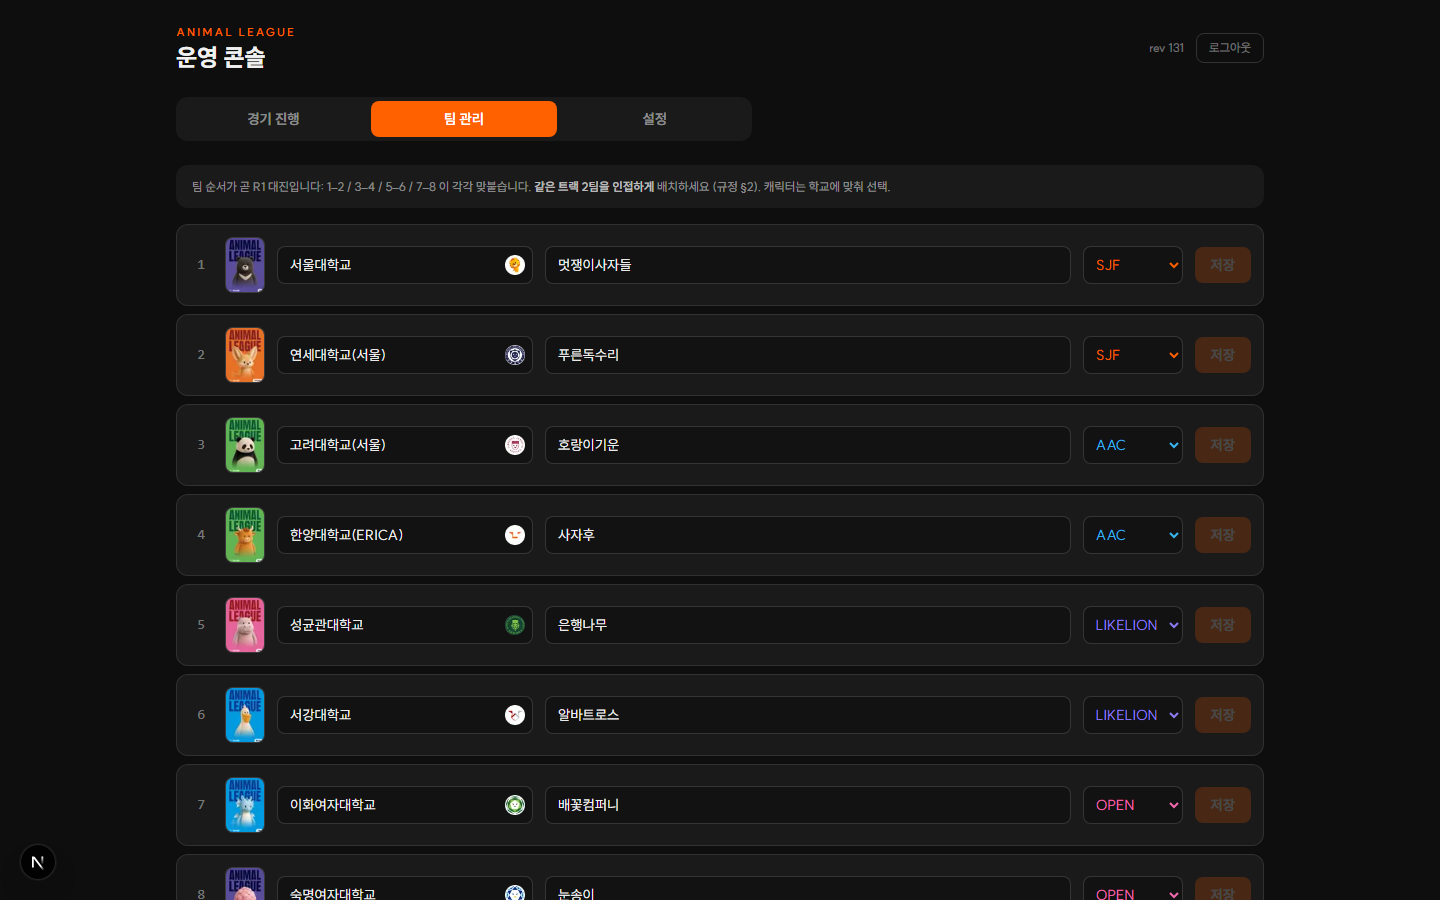
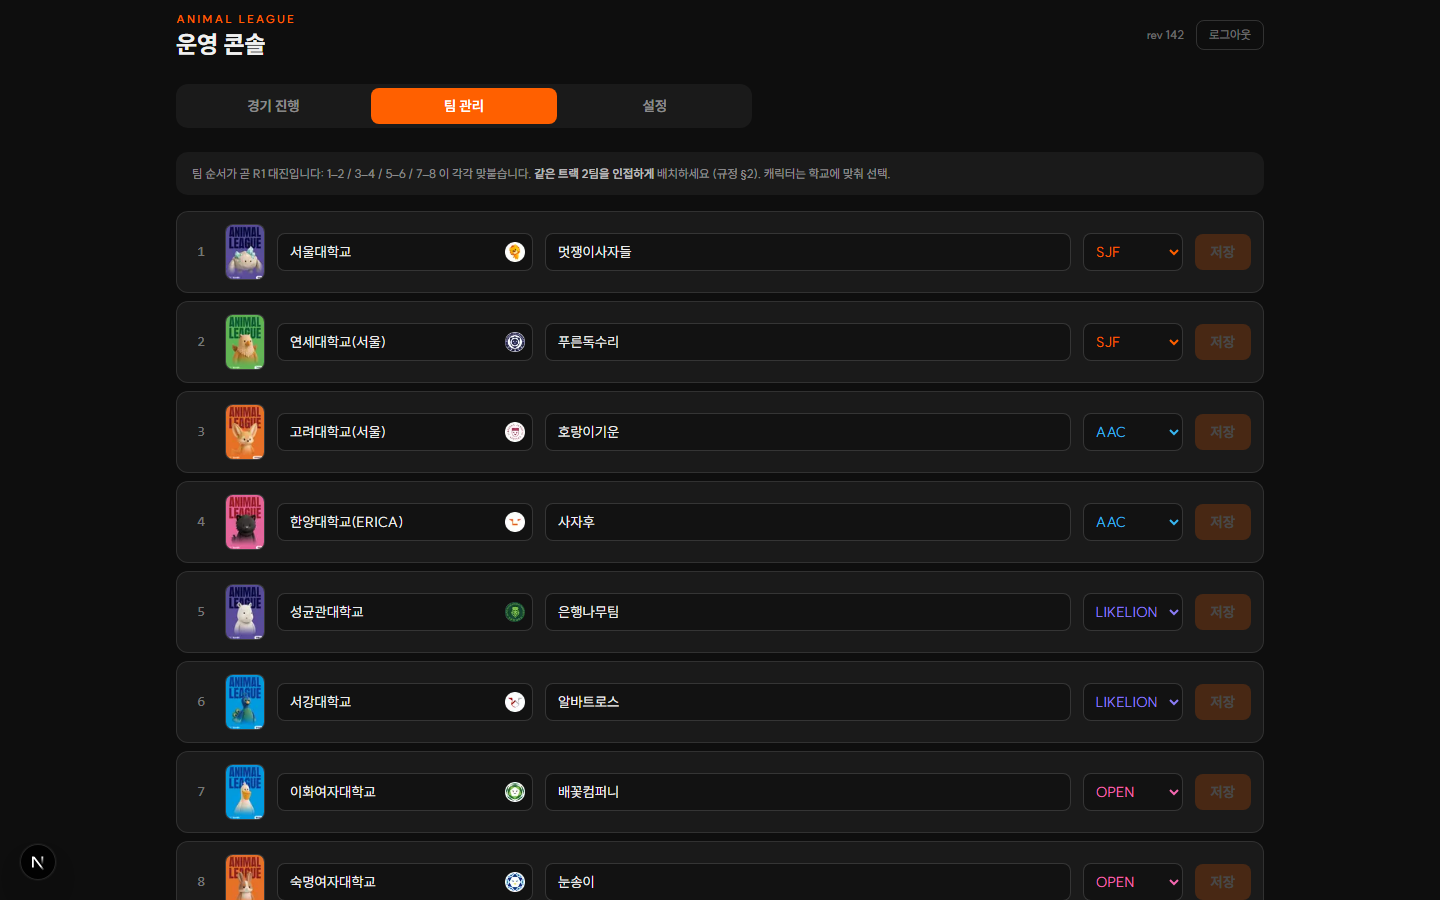
feat(admin): auto-assign characters from school roster mapping (#16)
담당자가 실서비스의 학교별 캐릭터 배정(학교 80 ↔ 캐릭터 80)을 제공했다.
8/17 '코드에 매핑 테이블을 두지 않는다' 결정은 데이터가 없던 시점의 것이라 갱신한다
— HANDOFF 결정 테이블에 경위 기록.

매핑을 잇는 데 빠져 있던 고리: 제공 데이터는 '학교 → 캐릭터 이름'인데 파일은
char_NN 번호뿐이다. 카드 이미지 80장의 하단 이름 배지를 전수 판독해
번호→이름 대응(CHARACTER_NAMES)을 만들었고, 손으로 만든 세 데이터의 정합을
테스트로 고정했다: 캐릭터 80종 이름 중복 없음 · 학교 80 전부 해석 가능 ·
학교↔캐릭터 1:1 · 학교 표기가 universityLogos 와 전부 일치 (로고 매칭 동반 보장).

- lib/characterMap.ts: CHARACTER_NAMES / SCHOOL_CHARACTERS / 조회 헬퍼 3종
- 팀 관리: 학교 입력이 배정 목록과 일치하면 캐릭터 자동 배정. 수동 픽커는 유지
  — 자동이 항상 이기지는 않는다 (학교 변경 시에만 다시 배정, 그 외엔 운영자 선택 존중)
- 픽커 title 에 캐릭터 이름 표기 (기존엔 파일 키만 보였음)

하지 않은 것 — 자동 배정을 서버(updateTeam)로 내리지 않았다. 매핑은 입력 보조일 뿐
규칙이 아니고, 서버가 강제하면 목록 밖 학교(명세: select 로 잠그지 않는 이유)나
의도적 예외 배정이 막힌다.

검증 — 단위 테스트 36건(매핑 일관성 5건 추가). Playwright 로 UI 타이핑 경로 실검증:
8개 학교 입력 → 저장 → API 재조회로 자동 배정 8/8 기대값 일치, 팀 관리 컷 갱신.

diff --git a/lib/characterMap.ts b/lib/characterMap.ts
@@ -1,0 +1,137 @@
+// 캐릭터 이름 ↔ 파일 키 ↔ 학교 매핑.
+//
+// - CHARACTER_NAMES: char_NN 파일이 어떤 캐릭터인지. 카드 이미지 하단 이름 배지를
+//   전수 판독해 만들었다 (2026-08-18, 80장 전부 확정)
+// - SCHOOL_CHARACTERS: 본 대회 서비스의 학교별 캐릭터 배정 (담당자 제공 데이터, 2026-08-18).
+//   80개 학교 ↔ 80개 캐릭터 1:1
+//
+// 운영 화면 팀 관리에서 학교를 고르면 이 매핑으로 캐릭터를 자동 배정하고,
+// 수동 변경은 계속 가능하다 (8/17 '직접 선택' 결정의 갱신 — 당시엔 매핑 데이터가 없었다).
+
+import type { CharacterKey } from './tournament.ts';
+
+export const CHARACTER_NAMES: Record<CharacterKey, string> = {
+  char_01: '멧돼지', char_02: '호랑이', char_03: '곰', char_04: '북극곰',
+  char_05: '사슴', char_06: '가젤', char_07: '고슴도치', char_08: '호저',
+  char_09: '벌꿀오소리', char_10: '수달', char_11: '사막여우', char_12: '북극여우',
+  char_13: '더치 토끼', char_14: '롭이어 토끼', char_15: '숏헤어 고양이', char_16: '폴드 고양이',
+  char_17: '원숭이', char_18: '여우원숭이', char_19: '나무늘보', char_20: '랫서팬더',
+  char_21: '팬더', char_22: '늑대', char_23: '하이에나', char_24: '치타',
+  char_25: '리트리버', char_26: '닥스훈트', char_27: '허스키', char_28: '황소',
+  char_29: '물소', char_30: '얼룩소', char_31: '다람쥐', char_32: '청설모',
+  char_33: '코끼리', char_34: '코뿔소', char_35: '하마', char_36: '카피바라',
+  char_37: '양', char_38: '얼룩말', char_39: '청황금강앵무', char_40: '홍금강앵무',
+  char_41: '부엉이', char_42: '수리부엉이', char_43: '올빼미', char_44: '펠리컨',
+  char_45: '닭', char_46: '수탉', char_47: '청둥오리', char_48: '독수리',
+  char_49: '공작새', char_50: '홍학', char_51: '왕부리새', char_52: '펭귄',
+  char_53: '마카로니 펭귄', char_54: '오목눈이', char_55: '참새', char_56: '화룡',
+  char_57: '수룡', char_58: '예티', char_59: '유니콘', char_60: '페가수스',
+  char_61: '봉황', char_62: '그리핀', char_63: '흑랑', char_64: '나무',
+  char_65: '은행나무', char_66: '벚꽃나무', char_67: '물', char_68: '불',
+  char_69: '번개', char_70: '얼음', char_71: '돌', char_72: '광석',
+  char_73: '동백꽃', char_74: '도라지꽃', char_75: '튤립', char_76: '송이버섯',
+  char_77: '광대버섯', char_78: '노루궁뎅이버섯', char_79: '선인장', char_80: '비모란',
+};
+
+export const SCHOOL_CHARACTERS: Record<string, string> = {
+  '가천대학교(글로벌)': '양',
+  '가톨릭대학교(성심)': '참새',
+  '강남대학교': '봉황',
+  '경기대학교': '왕부리새',
+  '경북대학교': '가젤',
+  '경상국립대학교': '튤립',
+  '경성대학교': '코끼리',
+  '경희대학교': '수리부엉이',
+  '계명대학교': '롭이어 토끼',
+  '고려대학교(서울)': '사막여우',
+  '고려대학교(세종)': '홍금강앵무',
+  '공주대학교(천안)': '곰',
+  '광운대학교': '예티',
+  '국립금오공과대학교': '나무늘보',
+  '국립순천대학교': '원숭이',
+  '국립창원대학교': '하마',
+  '국민대학교': '유니콘',
+  '단국대학교(죽전)': '여우원숭이',
+  '대구대학교': '도라지꽃',
+  '덕성여자대학교': '청둥오리',
+  '동국대학교': '하이에나',
+  '동덕여자대학교': '북극여우',
+  '동아대학교': '선인장',
+  '명지대학교(인문)': '화룡',
+  '명지대학교(자연)': '랫서팬더',
+  '백석대학교': '수달',
+  '삼육대학교': '독수리',
+  '상명대학교(서울)': '호저',
+  '상명대학교(천안)': '번개',
+  '서강대학교': '공작새',
+  '서경대학교': '팬더',
+  '서울과학기술대학교': '은행나무',
+  '서울대학교': '광석',
+  '서울여자대학교': '북극곰',
+  '서울예술대학교': '노루궁뎅이버섯',
+  '서일대학교': '페가수스',
+  '선문대학교': '허스키',
+  '성결대학교': '오목눈이',
+  '성공회대학교': '비모란',
+  '성균관대학교': '코뿔소',
+  '성신여자대학교': '수룡',
+  '세종대학교': '벚꽃나무',
+  '수원대학교': '마카로니 펭귄',
+  '숙명여자대학교': '더치 토끼',
+  '순천향대학교': '얼룩말',
+  '숭실대학교': '올빼미',
+  '신한대학교': '늑대',
+  '연세대학교(미래)': '숏헤어 고양이',
+  '연세대학교(서울)': '그리핀',
+  '연암공과대학교': '불',
+  '영남대학교': '사슴',
+  '을지대학교(성남)': '멧돼지',
+  '이화여자대학교': '펠리컨',
+  '인천대학교': '닥스훈트',
+  '인하대학교': '다람쥐',
+  '전북대학교': '청황금강앵무',
+  '제주대학교': '송이버섯',
+  '중부대학교(고양)': '동백꽃',
+  '중앙대학교': '물소',
+  '차의과학대학교': '호랑이',
+  '청주대학교': '부엉이',
+  '충남대학교': '벌꿀오소리',
+  '충북대학교': '카피바라',
+  '태재대학교': '황소',
+  '평택대학교': '닭',
+  '한국공학대학교': '청설모',
+  '한국교통대(충주)': '치타',
+  '한국기술교육대': '얼룩소',
+  '한국외대(글로벌)': '광대버섯',
+  '한국외대(서울)': '수탉',
+  '한국항공대': '물',
+  '한남대학교': '홍학',
+  '한동대학교': '고슴도치',
+  '한림대학교': '폴드 고양이',
+  '한밭대학교': '얼음',
+  '한서대학교(서산)': '나무',
+  '한성대학교': '돌',
+  '한양대학교(ERICA)': '흑랑',
+  '호서대학교': '펭귄',
+  '홍익대학교(서울)': '리트리버',
+};
+
+const KEY_BY_NAME: Record<string, CharacterKey> = Object.fromEntries(
+  Object.entries(CHARACTER_NAMES).map(([key, name]) => [name, key]),
+);
+
+/** 캐릭터 이름 → 파일 키. */
+export function characterKeyByName(name: string): CharacterKey | null {
+  return KEY_BY_NAME[name] ?? null;
+}
+
+/** 학교명(정확히 일치) → 배정된 캐릭터 파일 키. 목록에 없는 학교면 null. */
+export function characterKeyForSchool(school: string): CharacterKey | null {
+  const name = SCHOOL_CHARACTERS[school.trim()];
+  return name ? (KEY_BY_NAME[name] ?? null) : null;
+}
+
+/** 파일 키 → 캐릭터 이름 (픽커 라벨용). */
+export function characterName(key: CharacterKey | null): string | null {
+  return key ? (CHARACTER_NAMES[key] ?? null) : null;
+}

diff --git a/lib/characterMap.test.ts b/lib/characterMap.test.ts
@@ -1,0 +1,55 @@
+// 캐릭터 매핑 일관성 테스트 — 데이터가 서로 어긋나면 여기서 잡힌다.
+//
+// 세 데이터가 손으로 만들어졌다: 이미지 판독(CHARACTER_NAMES), 담당자 제공
+// 학교 배정(SCHOOL_CHARACTERS), 그리고 기존 universityLogos. 셋의 정합을 기계로 고정한다.
+
+import { test } from 'node:test';
+import assert from 'node:assert/strict';
+
+import {
+  CHARACTER_NAMES,
+  SCHOOL_CHARACTERS,
+  characterKeyForSchool,
+  characterKeyByName,
+  characterName,
+} from './characterMap.ts';
+import universityLogos from './universityLogos.ts';
+
+test('캐릭터는 char_01~80 정확히 80종, 이름 중복 없음', () => {
+  const keys = Object.keys(CHARACTER_NAMES);
+  assert.equal(keys.length, 80);
+  for (let i = 1; i <= 80; i += 1) {
+    assert.ok(keys.includes(`char_${String(i).padStart(2, '0')}`), `char_${i} 누락`);
+  }
+  assert.equal(new Set(Object.values(CHARACTER_NAMES)).size, 80);
+});
+
+test('학교 배정은 80개, 모든 배정 이름이 실제 캐릭터로 해석된다', () => {
+  const schools = Object.keys(SCHOOL_CHARACTERS);
+  assert.equal(schools.length, 80);
+
+  for (const school of schools) {
+    const key = characterKeyForSchool(school);
+    assert.ok(key !== null, `${school} → "${SCHOOL_CHARACTERS[school]}" 에 해당하는 캐릭터 없음`);
+  }
+});
+
+test('학교 ↔ 캐릭터는 1:1 — 두 학교가 같은 캐릭터를 쓰지 않는다', () => {
+  const keys = Object.keys(SCHOOL_CHARACTERS).map((s) => characterKeyForSchool(s));
+  assert.equal(new Set(keys).size, 80);
+});
+
+test('배정 학교명은 전부 universityLogos 표기와 일치한다 (로고 매칭이 함께 동작해야 함)', () => {
+  for (const school of Object.keys(SCHOOL_CHARACTERS)) {
+    assert.ok(school in universityLogos, `${school} 이 universityLogos 에 없음 — 표기 불일치`);
+  }
+});
+
+test('조회 헬퍼 동작', () => {
+  assert.equal(characterKeyForSchool('서울대학교'), 'char_72'); // 광석
+  assert.equal(characterKeyForSchool('  서울대학교 '), 'char_72'); // 공백 무시
+  assert.equal(characterKeyForSchool('없는대학교'), null);
+  assert.equal(characterKeyByName('그리핀'), 'char_62');
+  assert.equal(characterName('char_21'), '팬더');
+  assert.equal(characterName(null), null);
+});

diff --git a/app/admin/page.tsx b/app/admin/page.tsx
@@ -10,6 +10,7 @@
 import { useCallback, useEffect, useRef, useState } from 'react';
 import Image from 'next/image';
 import universityLogos from '@/lib/universityLogos';
+import { characterKeyForSchool, characterName } from '@/lib/characterMap';
 import type { Match, Team, Track, Side } from '@/lib/tournament';
 import { TRACKS } from '@/lib/tournament';
 
@@ -537,13 +538,14 @@ function CharacterPicker({
         <div className="grid grid-cols-5 gap-2 sm:grid-cols-8 xl:grid-cols-10">
           {keys.map((key) => {
             const owner = usedBy.get(key);
+            const name = characterName(key) ?? key;
             return (
               <button
                 key={key}
                 onClick={() => onPick(key)}
                 className="relative aspect-[2/3] overflow-hidden rounded-lg border transition-transform hover:scale-105"
                 style={{ borderColor: key === current ? 'var(--orange)' : 'rgba(255,255,255,0.1)' }}
-                title={owner !== undefined ? `팀 ${owner + 1} 사용 중` : key}
+                title={owner !== undefined ? `${name} — 팀 ${owner + 1} 사용 중` : name}
               >
                 <Image src={`/characters/${key}.png`} alt={key} fill sizes="90px" className="object-cover" />
                 {owner !== undefined && (
@@ -622,7 +624,12 @@ function TeamsTab({
                 <input
                   list="schools"
                   value={t.school}
-                  onChange={(e) => edit(i, { school: e.target.value })}
+                  onChange={(e) => {
+                    // 학교가 배정 목록과 일치하면 캐릭터 자동 배정 (수동으로 다시 고르는 것도 가능)
+                    const school = e.target.value;
+                    const mapped = characterKeyForSchool(school);
+                    edit(i, mapped ? { school, character: mapped } : { school });
+                  }}
                   placeholder="학교"
                   maxLength={40}
                   className="w-44 rounded-lg border border-white/15 bg-black/30 px-3 py-2 pr-8 text-sm outline-none focus:border-[var(--orange)] xl:w-64"

diff --git a/docs/HANDOFF.md b/docs/HANDOFF.md
@@ -120,7 +120,7 @@ SPEC §8 체크리스트를 실제로 한 번씩 밟아본다. 특히 동표 경
 | **팀 캐릭터는 학교별 매핑** (2026-08-16) | 각 학교에 맞는 캐릭터 이미지를 팀에 매핑. `Team.character` 에 이미지 키(`char_NN`) 저장. 필요한 이미지는 담당자가 추가 예정 |
 | **심사위원 명단제** (2026-08-17) | 상태에 `judges` 배열. 명단 밖 명의 제출은 서버가 거부 — 심사 코드가 새어도 가짜 표 차단. 입장은 코드 검증 → 명단에서 이름 선택 (SPEC §3) |
 | **초기 코드·PIN 은 수동 변경** (2026-08-17) | 강제 로직 없이 리허설 체크리스트로 관리. 행사 전 운영 화면에서 변경 (PIN 6자리 이상 권장) |
-| **캐릭터는 운영 화면에서 직접 선택** (2026-08-17) | 코드에 학교→캐릭터 매핑 테이블을 두지 않음. 팀 관리에서 그리드로 고름 (SPEC §6.3) |
+| **캐릭터는 학교 자동 배정 + 수동 변경** (2026-08-18, 8/17 결정 갱신) | 담당자가 실배정 데이터(학교 80 ↔ 캐릭터 80)를 제공해 `lib/characterMap.ts` 로 코드화. 팀 관리에서 학교 입력 시 자동 배정, 픽커로 수동 변경 가능. 8/17 의 '매핑 테이블 없음'은 데이터가 없던 시점의 결정 |
 | **배포는 Vercel** (2026-08-17) | GitHub 연동 자동 배포 + CDN 캐시로 폴링 부하 흡수. 계정·env 연결은 사람 몫 |
 
 ---
